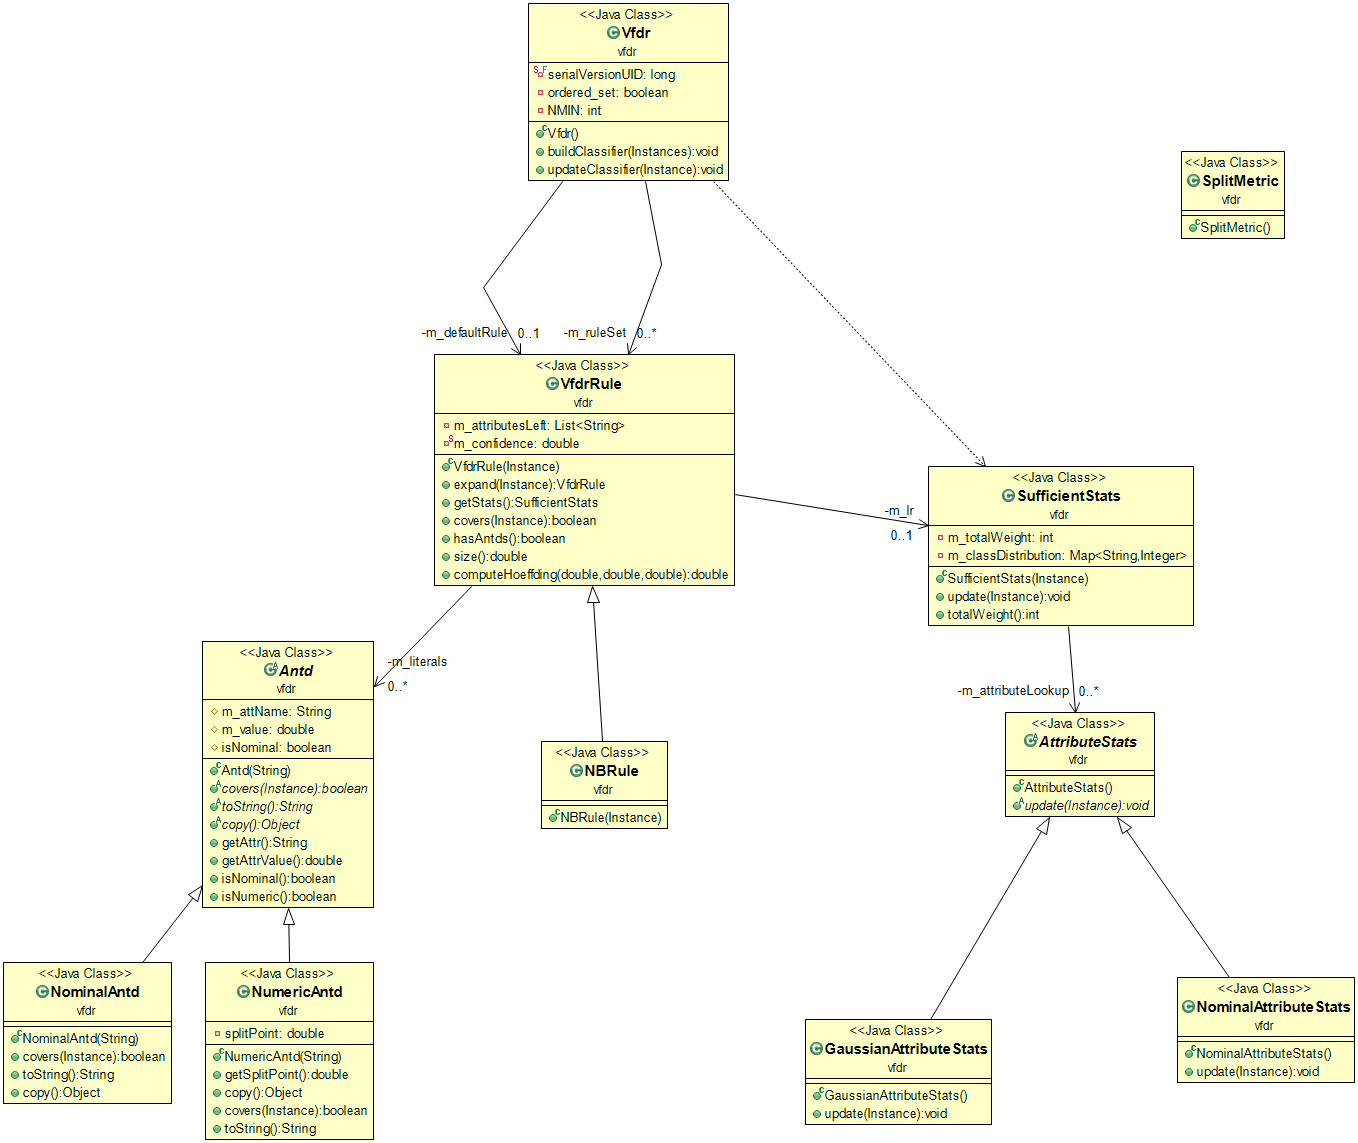
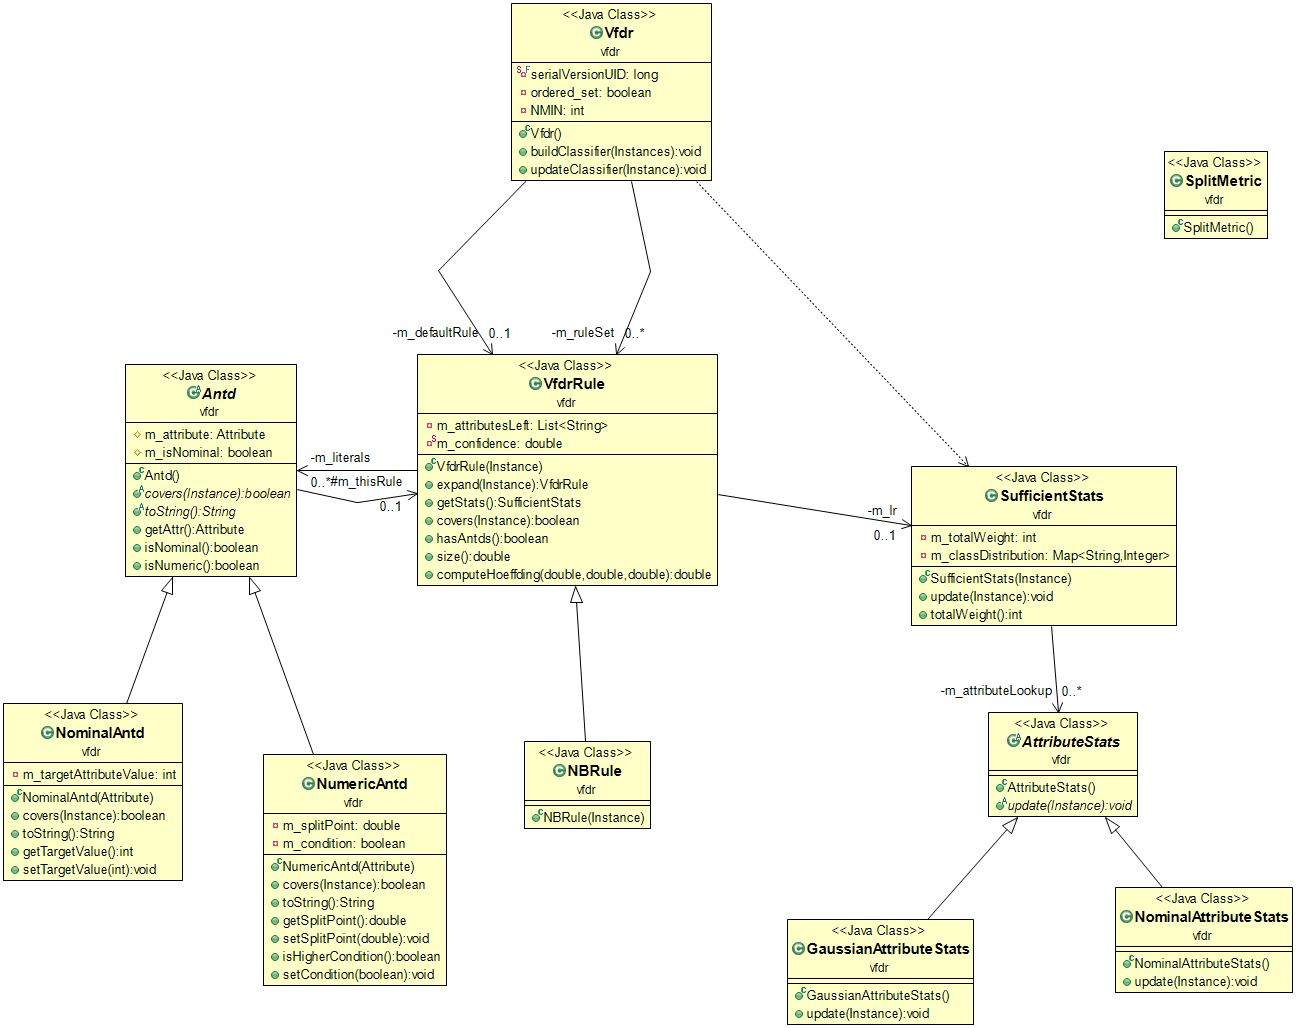
Implemented antecedents

diff --git a/Vfdr-weka/src/vfdr/NumericAntd.java b/Vfdr-weka/src/vfdr/NumericAntd.java
@@ -1,5 +1,6 @@
 package vfdr;
 
+import weka.core.Attribute;
 import weka.core.Instance;
 
 /**
@@ -11,43 +12,28 @@ import weka.core.Instance;
 public class NumericAntd extends Antd {
 
 	/** The split point for this numeric antecedent */
-	private double splitPoint;
-	
+	private double m_splitPoint;
+
+	/**
+	 * Is 0 if the condition is <=, 1 otherwise
+	 */
+	private boolean m_condition;
+
 	/**
 	 * Builds a numeric antecedent from the attname
+	 * 
 	 * @param a
 	 */
-	public NumericAntd(String a) {
-		super(a);
-		splitPoint = Double.NaN;
-		isNominal = false;
+	public NumericAntd(Attribute attribute) {
+		m_attribute = attribute;
+		m_splitPoint = Double.NaN;
+		m_isNominal = false;
 	}
 
-	/**
-	 * Get split point of this numeric antecedent
-	 * 
-	 * @return the split point of this numeric antecedent
-	 */
-	public double getSplitPoint() {
-		return splitPoint;
-	}
-
-	/**
-	 * Implements Copyable
-	 * 
-	 * @return a copy of this object
-	 */
-	@Override
-	public Object copy() {
-		NumericAntd na = new NumericAntd(getAttr());
-		na.m_value = this.m_value;
-		na.splitPoint = this.splitPoint;
-		return na;
-	}
 
 	@Override
 	public boolean covers(Instance inst) {
-		
+
 		return false;
 	}
 
@@ -56,11 +42,26 @@ public class NumericAntd extends Antd {
 		// TODO Auto-generated method stub
 		return null;
 	}
-	
-	
-	
-	
-	
-	
+
+	/**
+	 * Get split point of this numeric antecedent
+	 * 
+	 * @return the split point of this numeric antecedent
+	 */
+	public double getSplitPoint() {
+		return m_splitPoint;
+	}
+
+	public void setSplitPoint(double m_splitPoint) {
+		this.m_splitPoint = m_splitPoint;
+	}
+
+	public boolean isHigherCondition() {
+		return m_condition;
+	}
+
+	public void setCondition(boolean m_condition) {
+		this.m_condition = m_condition;
+	}
 
 }

diff --git a/Vfdr-weka/src/vfdr/Antd.java b/Vfdr-weka/src/vfdr/Antd.java
@@ -1,62 +1,43 @@
 package vfdr;
 
-import weka.core.Copyable;
+import weka.core.Attribute;
 import weka.core.Instance;
 
 /**
- *  Simple literal class used to create a rule.
+ * Simple literal class used to create a rule.
+ * 
  * @author cl-fo
  *
  */
-public abstract class Antd implements Copyable {
+public abstract class Antd {
 
 	/** The attribute of the antecedent */
-	protected String m_attName;
+	protected Attribute m_attribute;
+
+	protected boolean m_isNominal;
 
 	/**
-	 * The attribute value of the antecedent. For numeric attributes, the value is
-	 * either 0 (1st bag) or 1 (2nd bag).
+	 * Reference to the enclosing rule
 	 */
-	protected double m_value;
-	
-	protected boolean isNominal;
-	
-
-	/**
-	 * Constructor
-	 */
-	public Antd(String a) {
-		m_attName = a;
-		m_value = Double.NaN;
-	}
+	protected VfdrRule m_thisRule;
 
 	public abstract boolean covers(Instance inst);
 
-	@Override
 	public abstract String toString();
 
 	/**
-	 * Implements Copyable
-	 * 
-	 * @return a copy of this object
+	 * Get the attribute of this antecedent
 	 */
-	@Override
-	public abstract Object copy();
-
-	/* Get functions of this antecedent */
-	public String getAttr() {
-		return m_attName;
+	public Attribute getAttr() {
+		return m_attribute;
 	}
 
-	public double getAttrValue() {
-		return m_value;
+	public boolean isNominal() {
+		return m_isNominal;
 	}
-	
-	public boolean isNominal(){
-		return isNominal;
+
+	public boolean isNumeric() {
+		return !m_isNominal;
 	}
-	public  boolean isNumeric(){
-		return !isNominal;
-	}
-	
+
 }

diff --git a/Vfdr-weka/src/test/TestAntd.java b/Vfdr-weka/src/test/TestAntd.java
@@ -1,0 +1,71 @@
+package test;
+
+import static org.junit.Assert.assertEquals;
+import static org.junit.Assert.assertFalse;
+import static org.junit.Assert.assertTrue;
+
+import java.util.ArrayList;
+import java.util.List;
+
+import org.junit.Before;
+import org.junit.Test;
+
+import vfdr.NominalAntd;
+import vfdr.NumericAntd;
+import weka.core.Attribute;
+import weka.core.DenseInstance;
+import weka.core.Instance;
+
+public class TestAntd {
+
+	private NominalAntd nomAntd;
+	private NumericAntd numAntd;
+
+	private Attribute nomAtt;
+
+	@Before
+	public void setUp() {
+		List<String> values = new ArrayList<>();
+		values.add("value1");
+		values.add("value2");
+		values.add("value3");
+		values.add("value4");
+
+		nomAtt = new Attribute("nominalAttr", values);
+
+		nomAntd = new NominalAntd(nomAtt);
+
+	}
+
+	@Test
+	public void testNominalConstruction() {
+		assertTrue(nomAntd.isNominal());
+		assertFalse(nomAntd.isNumeric());
+
+		assertEquals(nomAntd.getAttr(), nomAtt);
+	}
+
+	@Test
+	public void testNominalSetup() {
+		nomAntd.setTargetValue(2);
+		assertEquals(nomAntd.getTargetValue(), 2, 0);
+	}
+
+	@Test
+	public void testNominalToString() {
+		nomAntd.setTargetValue(2);
+		assertEquals(nomAntd.toString(), "nominalAttr = value3");
+	}
+
+	@Test
+	public void testNominalCover() {
+		nomAntd.setTargetValue(2);
+
+		Instance inst = new DenseInstance(2);
+		inst.setValue(nomAtt, "value3");
+
+		assertTrue(nomAntd.covers(inst));
+
+	}
+
+}

diff --git a/Vfdr-weka/src/vfdr/NominalAntd.java b/Vfdr-weka/src/vfdr/NominalAntd.java
@@ -1,30 +1,38 @@
 package vfdr;
 
+import weka.core.Attribute;
 import weka.core.Instance;
 
 public class NominalAntd extends Antd {
 
-	public NominalAntd(String a) {
-		super(a);
-		// TODO Auto-generated constructor stub
+	/**
+	 * Index of the value of the attribute that is tested
+	 */
+	private int m_targetAttributeValue = -1;
+	
+	
+	public NominalAntd(Attribute attributeName) {
+		m_attribute = attributeName;
+		m_isNominal = true;
 	}
+	
 
 	@Override
 	public boolean covers(Instance inst) {
-		// TODO Auto-generated method stub
-		return false;
+		return (inst.value(m_attribute) == m_targetAttributeValue);
 	}
 
 	@Override
 	public String toString() {
-		// TODO Auto-generated method stub
-		return null;
+		return m_attribute.name() + " = " + m_attribute.value(m_targetAttributeValue);
 	}
 
-	@Override
-	public Object copy() {
-		// TODO Auto-generated method stub
-		return null;
+	public int getTargetValue() {
+		return m_targetAttributeValue;
+	}
+
+	public void setTargetValue(int m_attributeValue) {
+		this.m_targetAttributeValue = m_attributeValue;
 	}
 
 }
